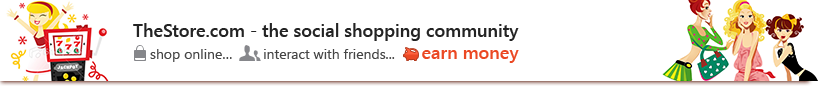
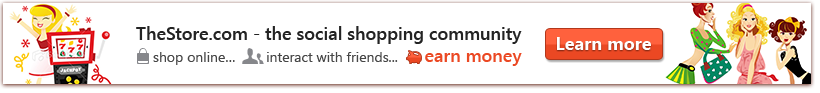
Fixed minor styling issures

diff --git a/app.js b/app.js
@@ -19,7 +19,6 @@ var express = require('express'),
     FacebookStrategy = require('passport-facebook').Strategy,
     TwitterStrategy = require('passport-twitter').Strategy,
     GoogleStrategy = require('passport-google-oauth').OAuth2Strategy,
-    IPBlocklist = require("./models/IPBlocklist.js"),
     path = require('path');
 
 var app = express();
@@ -56,19 +55,14 @@ passport.deserializeUser(function(obj, done) {
 passport.use(new FacebookStrategy({
     clientID: "376845965748399",
     clientSecret: "36b3561ebfd0eba7935baba8f7e537ec",
-    callbackURL: "http://localhost:3000/auth/facebook/callback", // Change this when LIVE
-    profileFields: ['id','displayName', 'emails', 'photos'],
-    passReqToCallback: true
+    callbackURL: "http://localhost:3000/auth/facebook/callback" // Change this when LIVE
   },
-  function(req, accessToken, refreshToken, profile, done) {
+  function(accessToken, refreshToken, profile, done) {
     var fullName = profile._json.name;
     var email = profile._json.email;
-    var pictureURL = profile._json.picture.data.url;
-    var referralId = req.session.referral || "";
     // asynchronous verification, for effect...
     process.nextTick(function () {
-      // console.log(profile);
-      user.add(email, fullName, "facebook", accessToken, refreshToken, pictureURL, referralId, function (err, user) {
+      user.add(email, fullName, "facebook", accessToken, refreshToken, function (err, user) {
         if (err) { return done(err); }
         done(null, user);
       });
@@ -84,12 +78,10 @@ passport.use(new TwitterStrategy({
   function(req, token, tokenSecret, profile, done) {
     // asynchronous verification, for effect...
     process.nextTick(function () {
-      console.log(profile);
       var fullName = profile._json.name;
       var newUser = {
           email: "",
           full_name: fullName,
-          pictureURL: profile._json.profile_image_url_https,
           token: token,
           tokenSecret: tokenSecret
       };
@@ -101,17 +93,14 @@ passport.use(new TwitterStrategy({
 passport.use(new GoogleStrategy({
     clientID: "206420410955.apps.googleusercontent.com",
     clientSecret: "6kwVKkodeGjw6bpeeJxRJhYs",
-    callbackURL: "/auth/google/callback",
-    passReqToCallback: true
+    callbackURL: "/auth/google/callback"
   },
-  function(req, token, tokenSecret, profile, done) {
+  function(token, tokenSecret, profile, done) {
     var fullName = profile._json.name;
     var username = profile._json.email;
     var email = profile._json.email;
-    var pictureURL =  profile._json.picture;
-    var referralId = req.session.referral || "";
     process.nextTick(function () {
-      user.add(email, fullName, "google", token, tokenSecret, pictureURL, referralId, function (err, user) {
+      user.add(email, fullName, "google", token, tokenSecret, function (err, user) {
         if (err) { return done(err); }
         done(null, user);
       });
@@ -149,40 +138,30 @@ app.configure('development', function(){
   app.use(express.errorHandler());
 });
 
-app.get('/', getClientIp, routes.index);
-app.get('/referral/:referralid', getClientIp, routes.addReferral); // Change this to the appropriate route
-app.get('/privacy', getClientIp, routes.privacy);
-app.get('/earnmorespins', getClientIp, routes.earnmorespins);
-app.get('/getemail', getClientIp, routes.getemail);
-app.get('/user/blockedip', getClientIp, routes.blockIP);
-//Admin
+app.get('/', routes.index);
+app.get('/referral/:referralid', routes.addReferral); // Change this to the appropriate route
+app.get('/privacy', routes.privacy);
+app.get('/earnmorespins', routes.earnmorespins);
+app.get('/getemail', routes.getemail);
 app.get('/admin/login', admin.login);
 app.get('/admin/index', restrict, admin.index);
 app.get('/admin/add', admin.add);
 app.get('/admin/view/users', restrict, admin.viewUsers);
 app.get('/admin/view/winners', restrict, admin.viewWinners);
 app.get('/admin/view/prizes', restrict, admin.viewPrizes);
-app.get('/admin/blockip', restrict, admin.blockip);
-app.get('/admin/blocklist/delete/:id',restrict, admin.deleteip);
-app.get('/admin/settings', restrict, admin.settings);
 app.get('/admin/setup', restrict, setup.setup);
-app.get('/admin/prizes/edit/:id',restrict, admin.editPrizes);
-app.get('/admin/prizes/delete/:id',restrict, admin.deletePrize);
-app.post('/admin/add/blockedip', restrict, admin.addBlockedIP);
 
-app.post('/admin/prizes/edit/:id',restrict, admin.updatePrizes);
-app.post('/admin/create/prize', admin.addPrize);
-app.post('/invite/email', user.inviteEmails);
 app.post('/twitter/email', user.addTwitterEmail);
 app.post('/post/add/winner', user.addWinner);
 app.post('/post/update/player', user.updatePlayer);
 app.post('/post/game/params', user.getGameParams);
 app.post('/add/new/user', user.create);
-app.post('/login/user', getClientIp, user.login);
+app.post('/login/user',user.login);
 app.post('/admin/auth', admin.auth);
 app.post('/admin/update/prizes/available', admin.update_available_prizes);
 
 app.get('/logout', function(req, res){
+  console.log(req.session.user);
   req.logout();
   req.session.user = undefined;
   res.redirect('/');
@@ -190,7 +169,8 @@ app.get('/logout', function(req, res){
 app.get('/auth/facebook', passport.authenticate('facebook'));
 app.get('/auth/facebook/callback',  passport.authenticate('facebook', { failureRedirect: '/' }),
   function(req, res) {
-    req.session.user= req.user;
+    req.session.user = [];
+    req.session.user[0] = req.user;
     res.render('authcallback.html', { title: 'Spin To Win: Authentication Success'});
   });
 
@@ -198,7 +178,8 @@ app.get('/auth/facebook/callback',  passport.authenticate('facebook', { failureR
 app.get('/auth/twitter', passport.authenticate('twitter'));
 app.get('/auth/twitter/callback', passport.authenticate('twitter', {scope: "email", failureRedirect: '/' }),
   function(req, res) {
-    req.session.user = req.user;
+    req.session.user = [];
+    req.session.user[0] = req.user;
     res.render('twitterauthcallback.html', { title: 'Spin To Win: Authentication Success'});
   });
 
@@ -207,7 +188,9 @@ app.get('/auth/google', passport.authenticate('google', { scope: ['https://www.g
 
 app.get('/auth/google/callback', passport.authenticate('google', { failureRedirect: '/' }),
   function(req, res) {
-    req.session.user = req.user;
+    console.log(req.user);
+    req.session.user = [];
+    req.session.user[0] = req.user;
     res.render('authcallback.html', { title: 'Spin To Win: Authentication Success'});
   });
 
@@ -230,35 +213,9 @@ function ensureAuthenticated(req, res, next) {
 
 function restrict(req, res, next) {
   if (req.session.administrator) {
-    next();
+  next();
   } else {
-    req.session.error = 'Access denied!';
-    res.redirect('/admin/login');
+  req.session.error = 'Access denied!';
+  res.redirect('/admin/login');
   }
-}
-function getClientIp(req, res, next) {
-  var ipAddress;
-  // Amazon EC2 / Heroku workaround to get real client IP
-  var forwardedIpsStr = req.header('x-forwarded-for');
-  if (forwardedIpsStr) {
-    // 'x-forwarded-for' header may return multiple IP addresses in
-    // the format: "client IP, proxy 1 IP, proxy 2 IP" so take the
-    // the first one
-    var forwardedIps = forwardedIpsStr.split(',');
-    ipAddress = forwardedIps[0];
-  }
-  if (!ipAddress) {
-    // Ensure getting client IP address still works in
-    // development environment
-    ipAddress = req.connection.remoteAddress;
-  }
-  console.log(ipAddress);
-  IPBlocklist.findIP(ipAddress, function(err, ip) {
-    if(ip) {
-      res.redirect("/user/blockedip");
-    } else {
-      next();
-    }
-  });
-  //return ipAddress;
 }

diff --git a/views/index.html b/views/index.html
@@ -23,7 +23,6 @@
 				</div>
 				<h2 class="slot_text">TEST YOUR LUCK WITH OUR <span class="large_text">FREE</span> SPIN TO WIN GAME</h2>
 				<button id="play" class="btn btn-large btn-success">Spin To Win</button>
-				<div class="fb-like" data-href="https://www.facebook.com/thestorecom" data-send="false" data-layout="button_count" data-width="150" data-show-faces="false" data-font="arial"></div>
 			</div>
 			<div class="how_to_play">
 				<div class="spins_left">
@@ -58,13 +57,16 @@
 					</div>
 				</div>
 			</div>
+			<div style="float:left; margin-left: 530px; margin-top: 20px;">
+				<div class="fb-like" data-href="https://www.facebook.com/thestorecom" data-send="false" data-layout="button_count" data-width="150" data-show-faces="false" data-font="arial"></div>
+			</div>
 		</div>
 	</div>
 	<div class="bottom_banner">
 	</div>
 	{% if prizes.length > 0 %}
 	<div class="our_prizes">
-		<h2 style="color: #1065b4;">Our Prizes</h2>
+		<h2 style="color: #1065b4; margin-left:20px;">Our Prizes</h2>
 		<div class="container" style="background-color:#fff; -webkit-box-shadow: 0 8px 6px -6px black; -moz-box-shadow: 0 8px 6px -6px black; box-shadow: 0 8px 6px -6px black; ">
 		  	<div id="myCarousel" class="carousel slide">
 			  <!-- Carousel items -->

diff --git a/public/stylesheets/style.css b/public/stylesheets/style.css
@@ -350,11 +350,16 @@ a {
   background-color: #fff;
 }
 .bottom_banner {
-  width: 839px;
-  height: 96px;
+  width: 808px;
+  height: 82px;
   margin: 0 auto;
-  background-image: url("../images/home_bottom_banner.png"); 
+  background-image: url("../images/home_bottom_banner.png");
   background-repeat: no-repeat;
+  background-position-y: -2px;
+  background-position-x: -3px;
+  -webkit-box-shadow: 0 8px 6px -6px black;
+ -moz-box-shadow: 0 8px 6px -6px black;
+  box-shadow: 0 8px 6px -6px black;
 }
 .earnmore {
   text-shadow: none;
